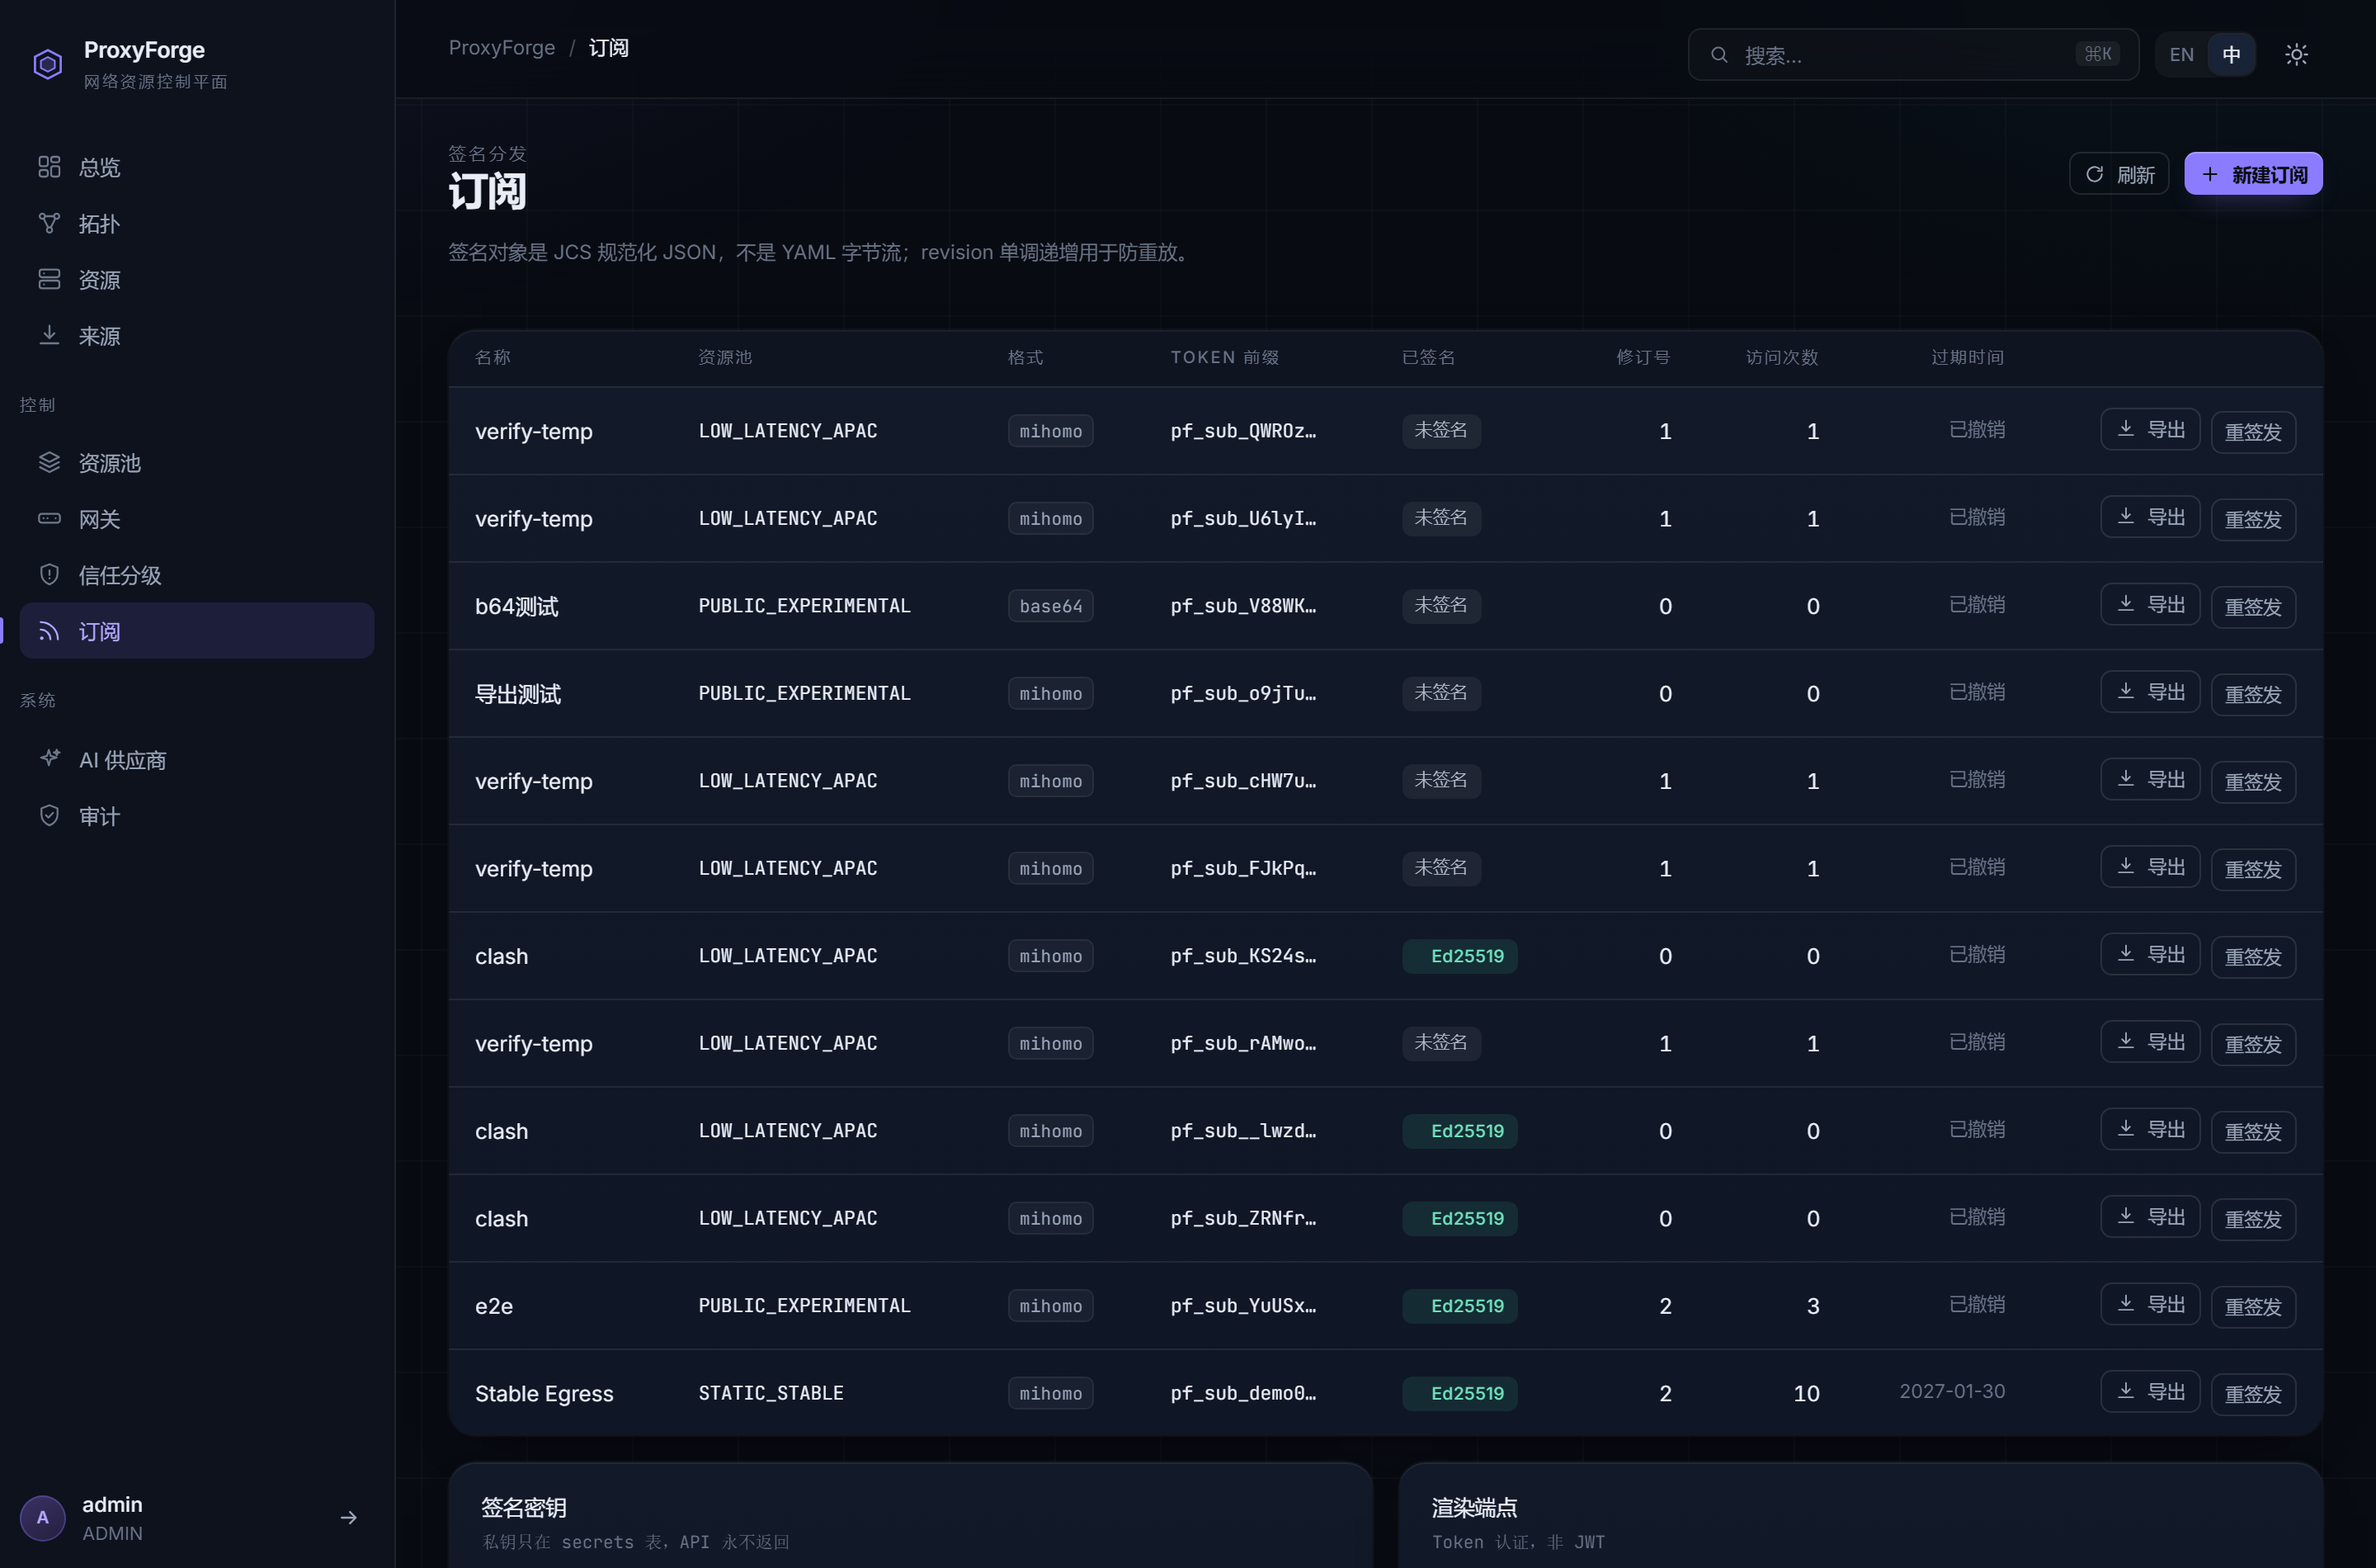
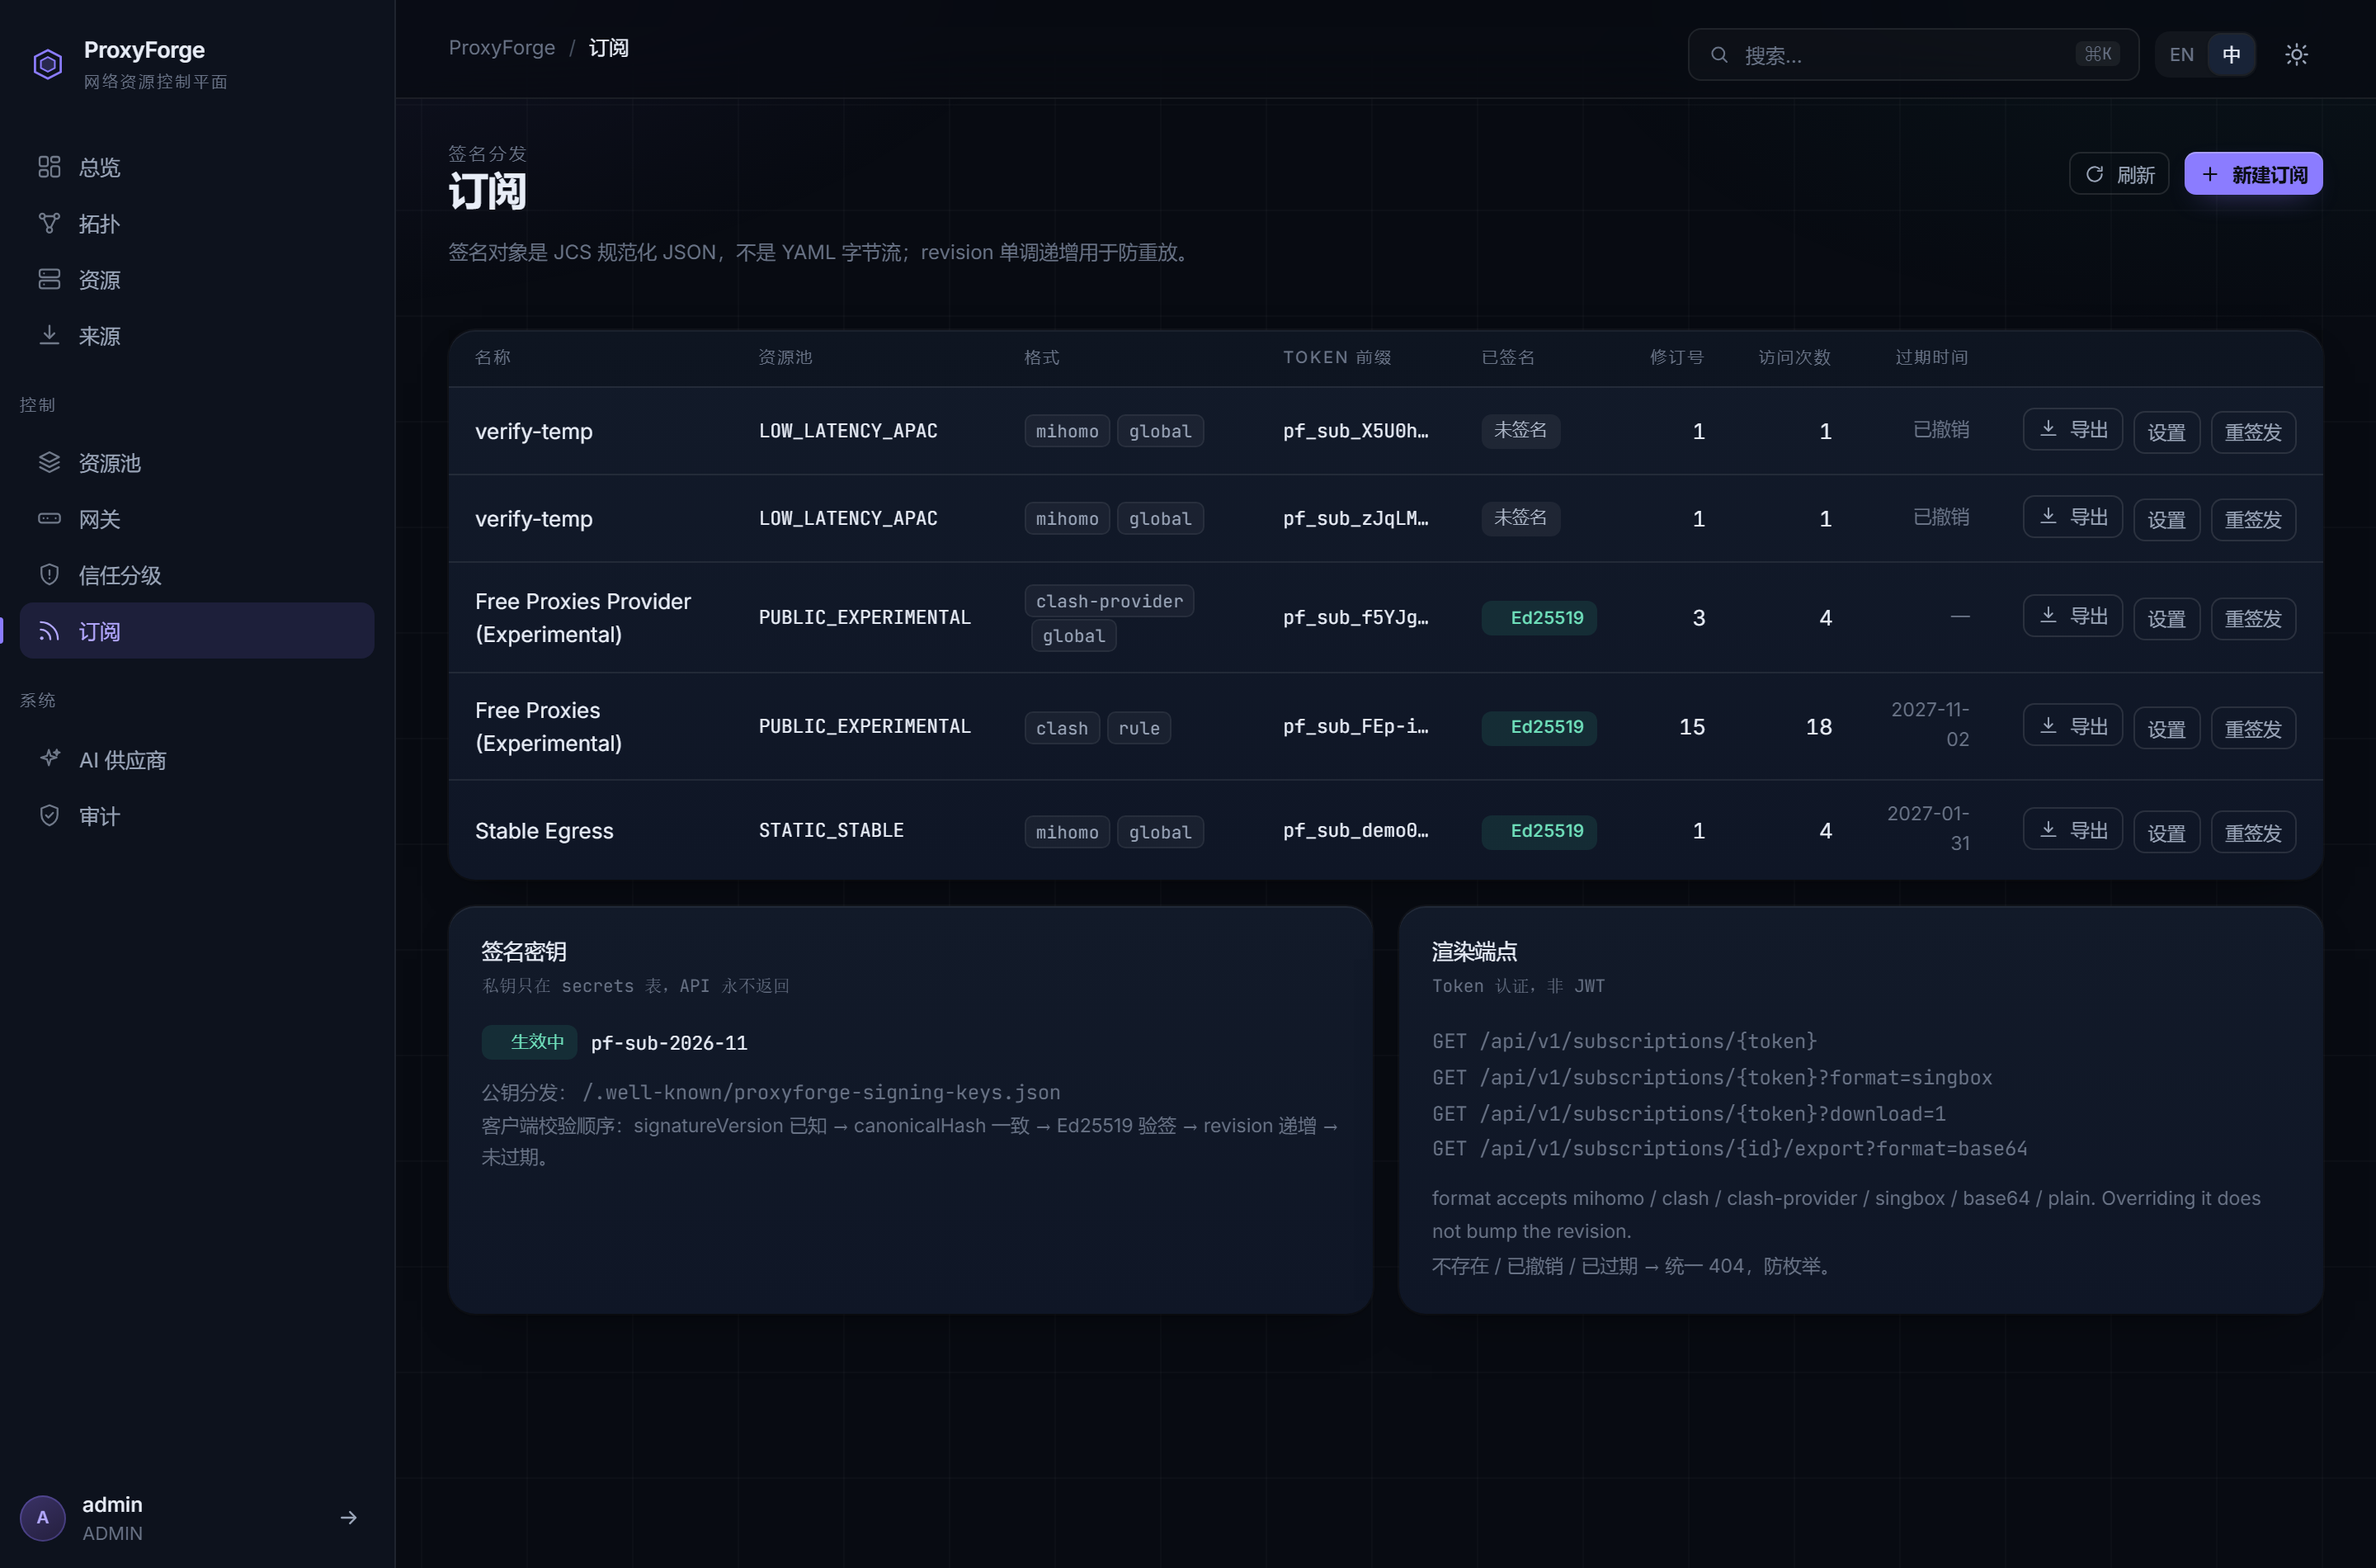
docs: mermaid 换成手绘架构图，截图按真实数据重新生成
**GitHub 上那张 mermaid 图一直是坏的** —— 渲染成
「Unable to render rich display」加一段裸代码，从旧版就在，没人发现。
改成手绘 SVG（`docs/architecture.svg`），风格与 banner 一致，
也不再依赖渲染器：七张卡片一条主链，加一条签名订阅旁路。

截图全部按当前真实数据重新生成（原来是 11-02 的 282 个端点，
正文却写着 898，两处对不上）：

  累计候选 154.8k · 去重 60.2k · 待处理 174 · 已晋级 60.2k
  HEALTHY 874 · 订阅 196 节点 · 实测可用 94

`scripts/shots.mjs` 同时补掉一个假绿：它的「渲染就绪」判据只查面板高度 > 120px，
而骨架屏本身就比 120px 高，于是「数据没到」和「数据为空」都算通过 ——
第一次重新截图，来源页截出来是四个 0 加五条灰条，断言全绿。

修法：给 `Skeleton` 加 `data-skeleton` 钩子，脚本等它消失；再等一轮
networkidle 和 1.2s —— PGlite 单线程串行执行，`sources` 3.4s 会把
`stats` 0.5s 堵在后面，只等骨架屏会截到「列表已出、统计卡还是 0」的半成品。

README 的图片引用改为 7 张（banner / pipeline / architecture + 4 张截图）。

diff --git a/apps/web/src/components/ui.tsx b/apps/web/src/components/ui.tsx
@@ -394,8 +394,12 @@ export function KV({ k, v }: { k: string; v: ReactNode }): JSX.Element {
 }
 
 export function Skeleton({ rows = 4 }: { rows?: number }): JSX.Element {
+  // `data-skeleton` 是给截图回归用的钩子。
+  // 之前 shots.mjs 的「渲染就绪」判据只看面板高度 > 120px，
+  // 而骨架屏本身就超过 120px —— 于是「数据还没到」和「数据为空」都算通过，
+  // 截出来的图是四个 0 加五条灰条，断言全绿。判据必须能区分这两种情况。
   return (
-    <div style={{ padding: '16px 20px', display: 'grid', gap: 10 }}>
+    <div data-skeleton="" style={{ padding: '16px 20px', display: 'grid', gap: 10 }}>
       {Array.from({ length: rows }, (_, i) => (
         <div
           key={i}
